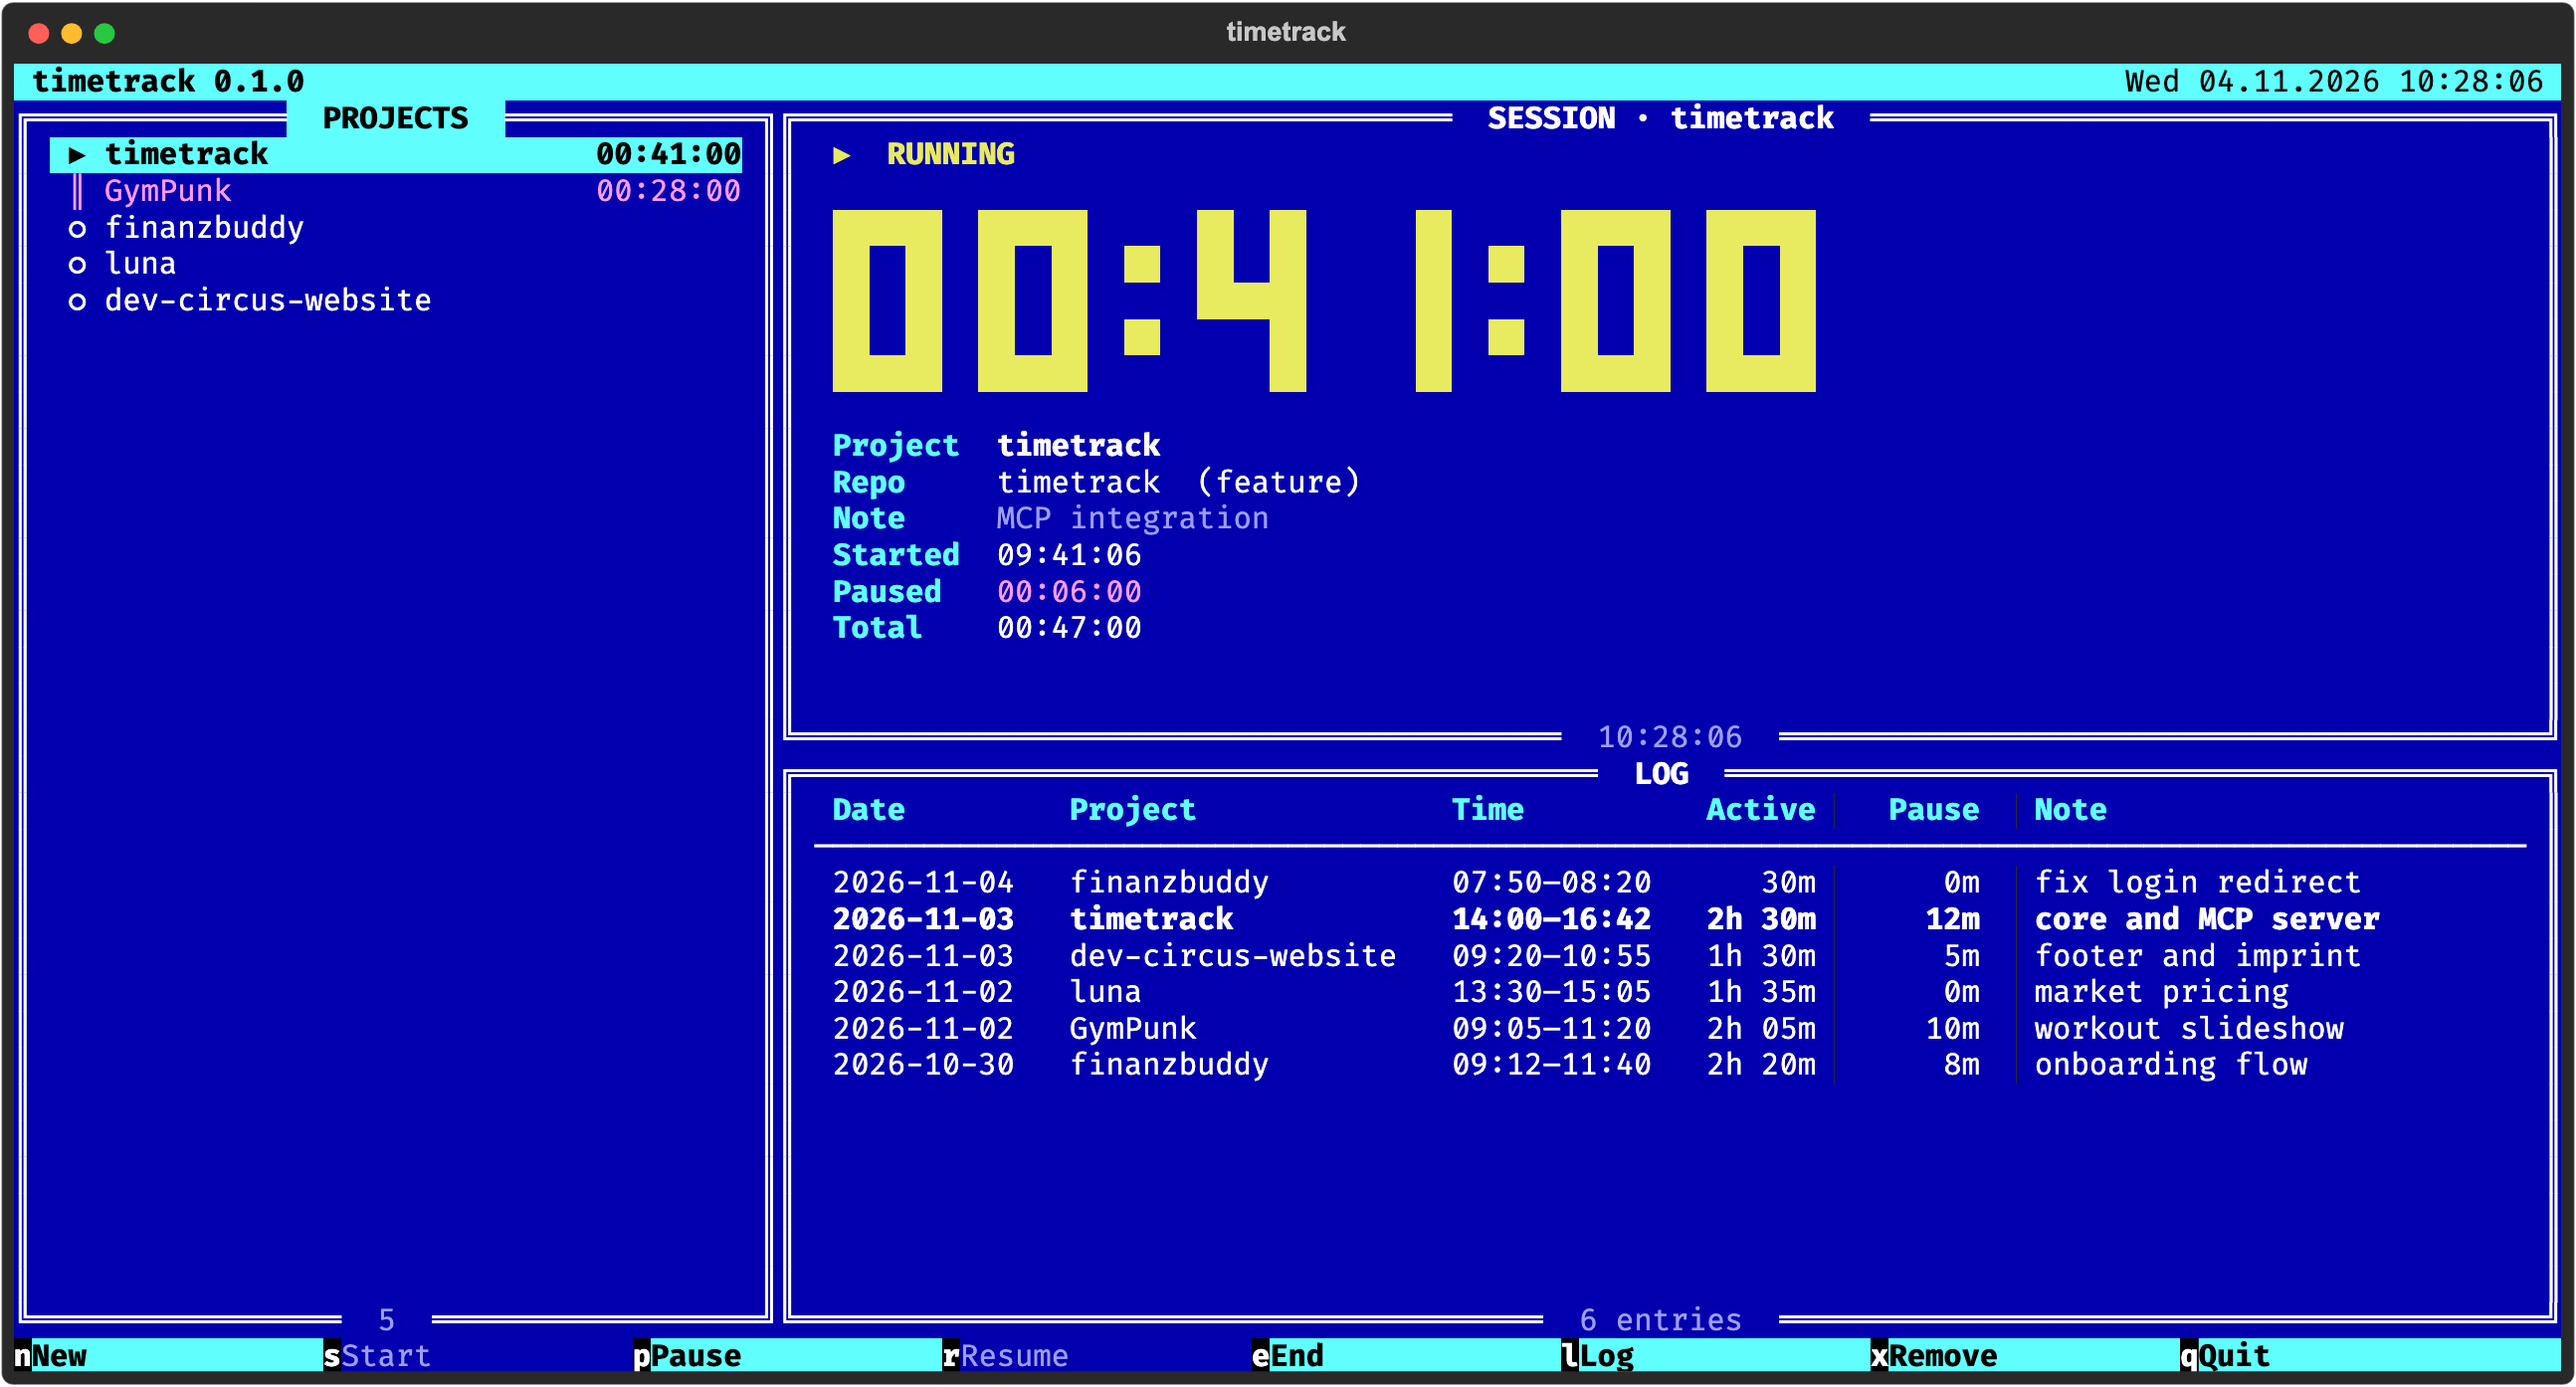
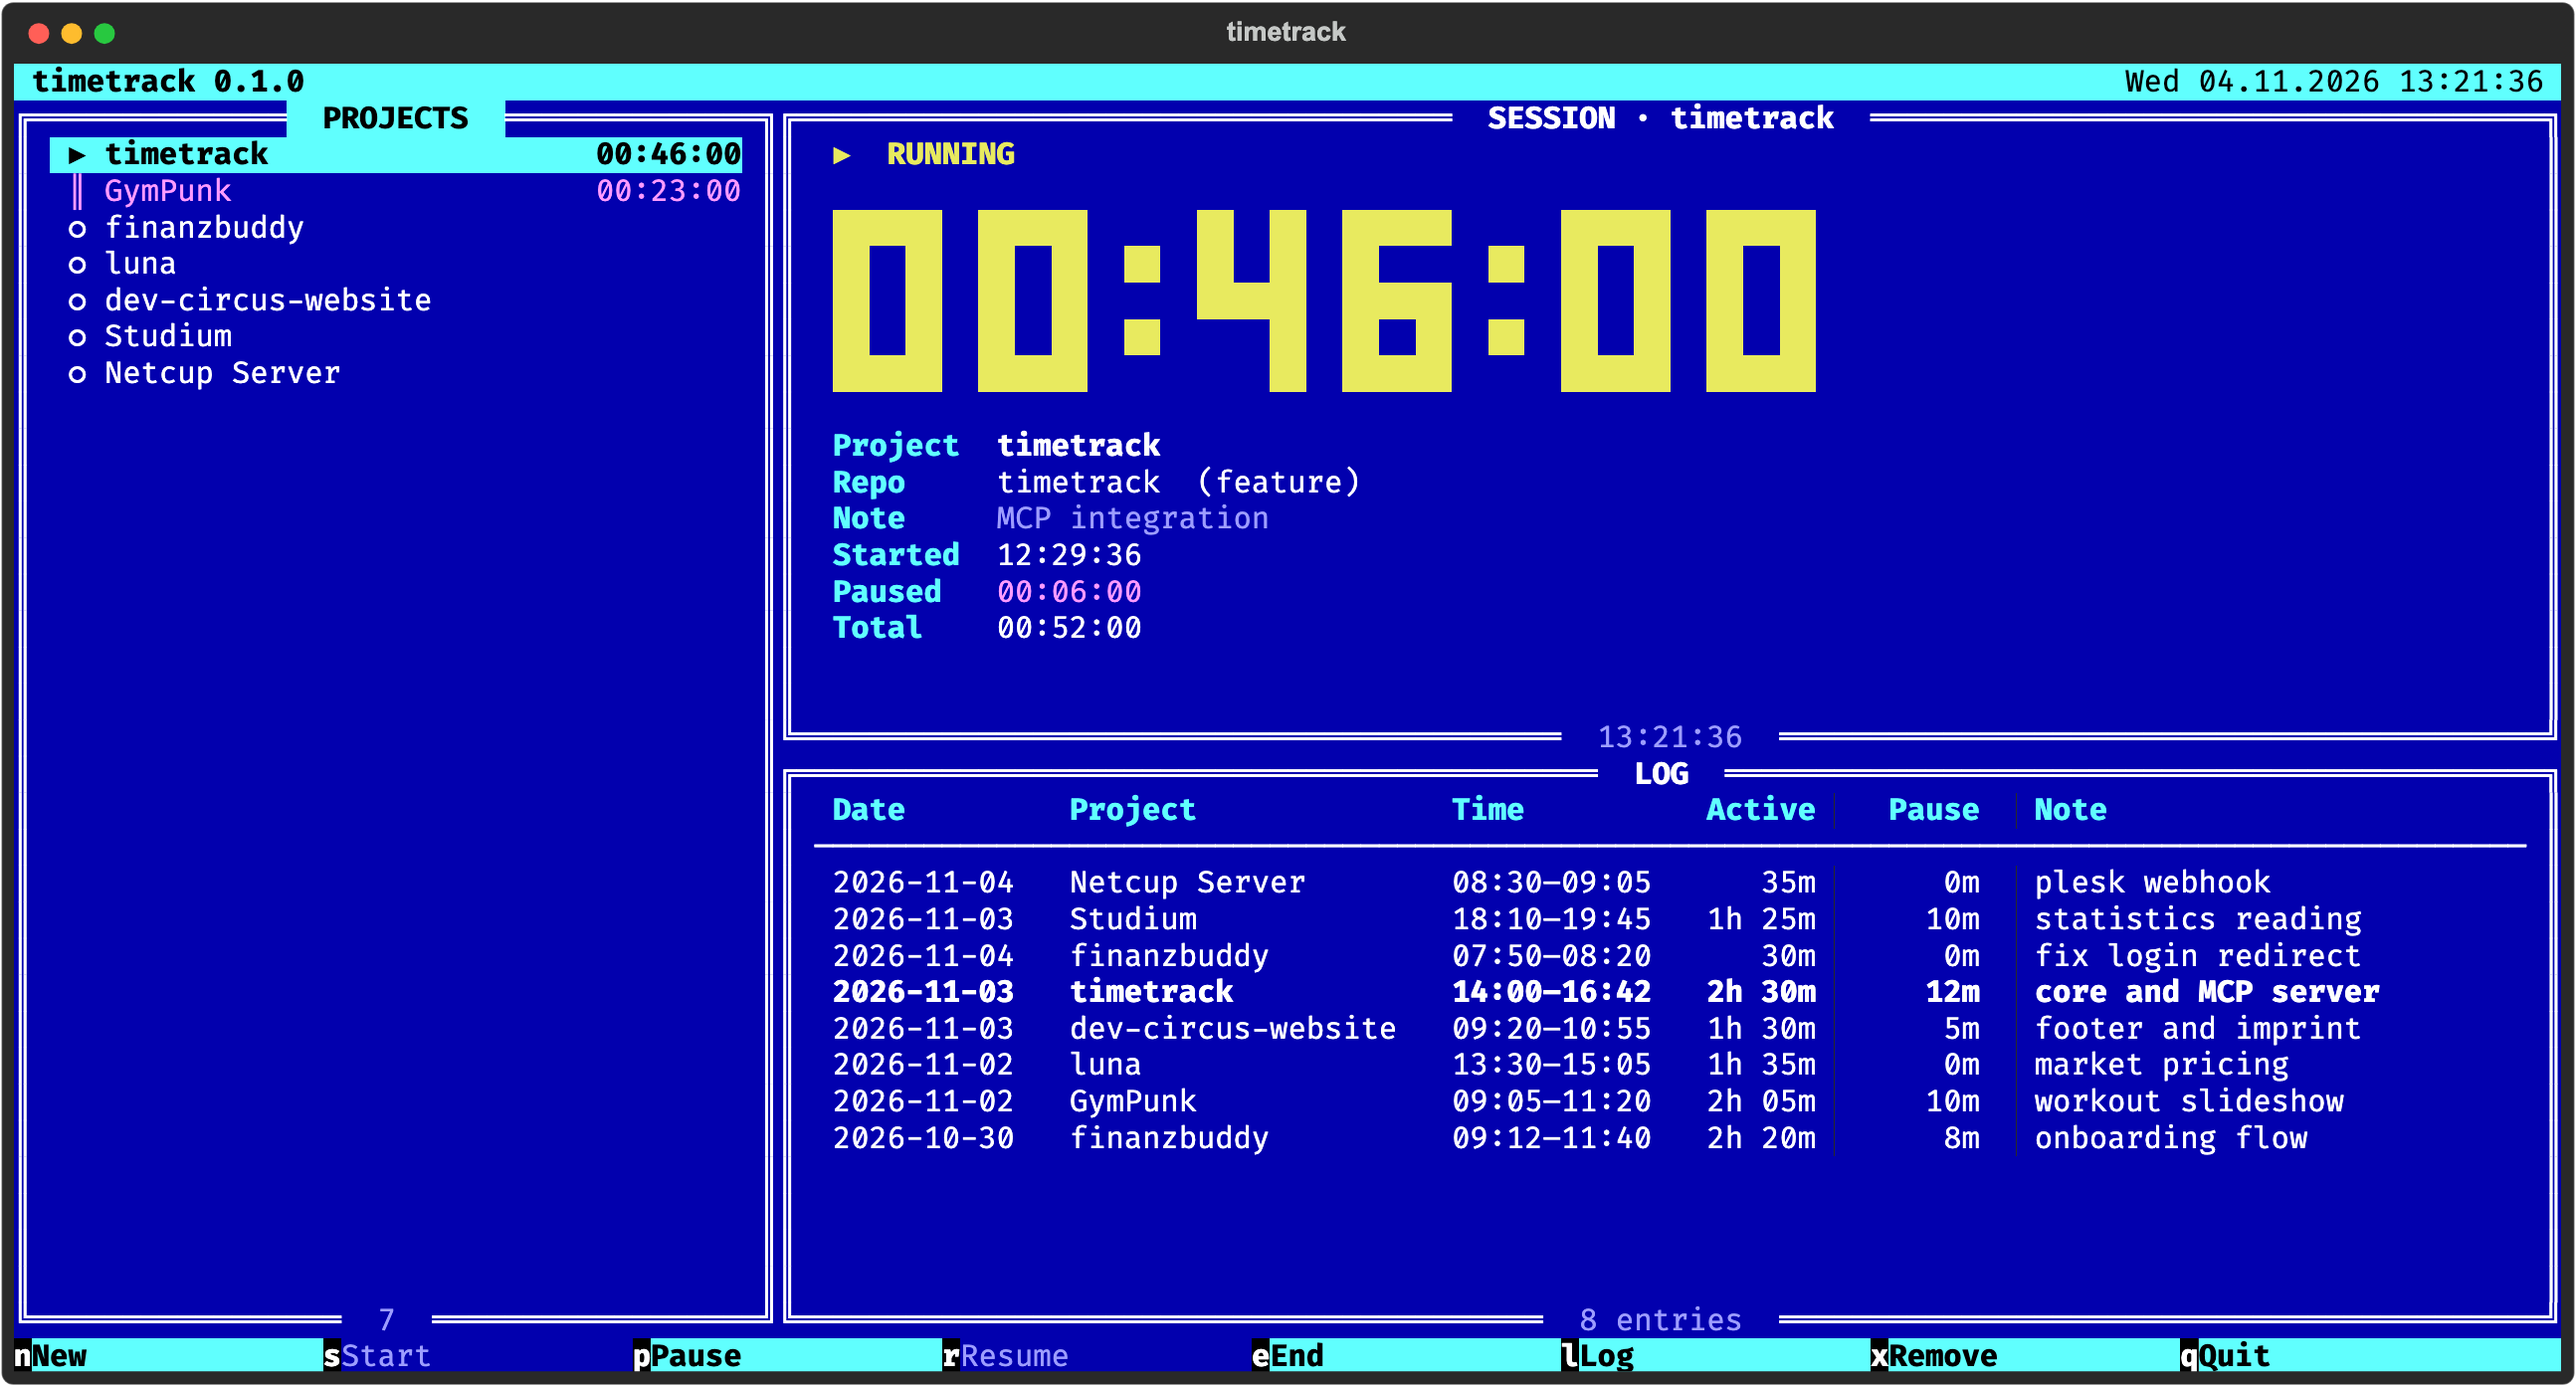
[atwork] docs: neuer TUI-Screenshot mit Ordner-Projekten, README-Intro nennt Ordnernamen als Fallback

diff --git a/README.md b/README.md
@@ -10,7 +10,7 @@ One shared core (state + log) drives three frontends:
 - **CLI** — `timetrack start | pause | resume | stop | status | log | summary | projects | migrate`
 - **MCP server** for Claude — `timetrack-mcp`
 
-The project is detected from the Git repo of the working directory. Sessions survive closing the terminal, and the TUI shows live what was started from the CLI or by Claude.
+The project is detected from the Git repo of the working directory, or from the folder name if there is none. Sessions survive closing the terminal, and the TUI shows live what was started from the CLI or by Claude.
 
 ## Features
 
